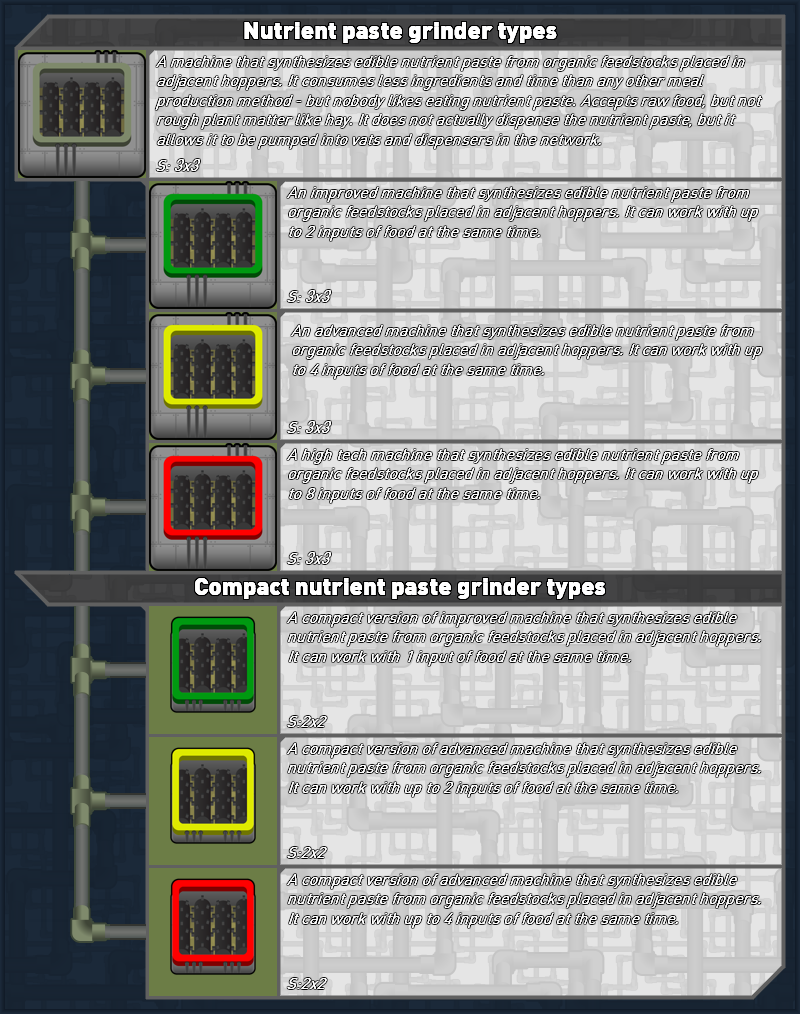
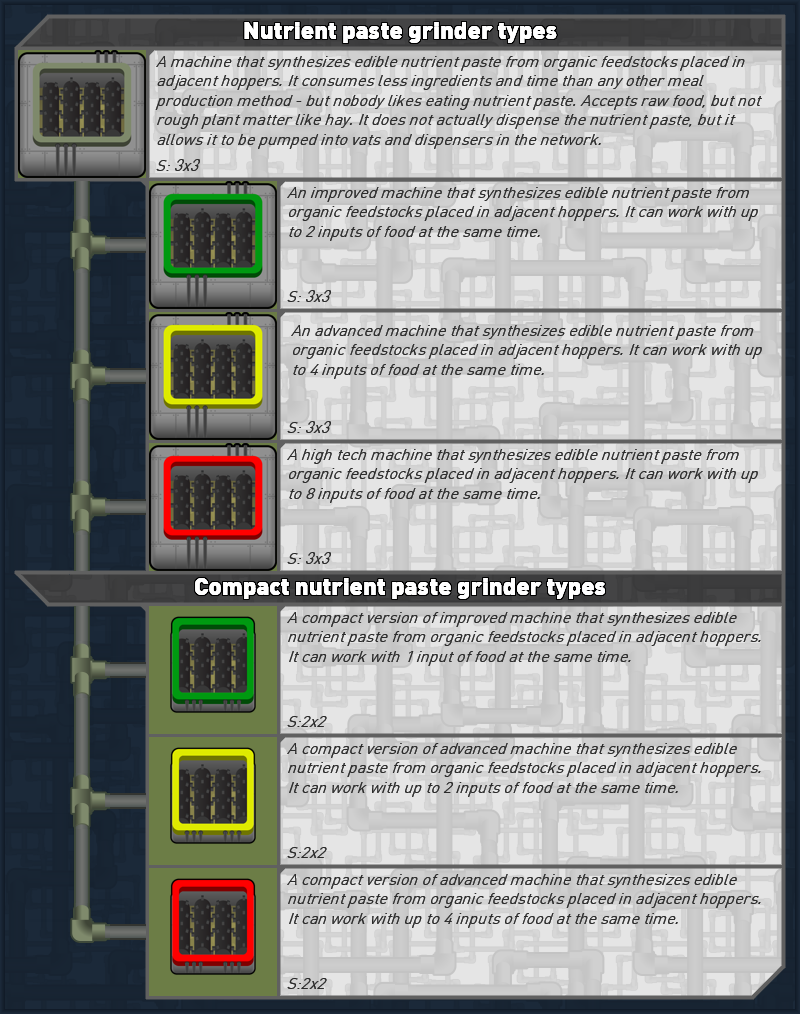
Fixed Fridge hopper showing even without related mod. Fixed grinder attribute failing from other mod. Updated image desc color for everything. Updated Readme.

diff --git a/README.md b/README.md
@@ -32,6 +32,8 @@ For the reference things from Rimworld and VNPE shown below alongside content of
 
 Should have no compatibility issues with other mods, unless Vanilla Nutrient Paste Expanded have.
 
+Add refridgerated versions of feeder and hopper, if Simple Utilites: Fridge mod installed.
+
 **This mod is an unofficial addition for Vanilla Nutrient Paste Expanded.**
 
 Supported languages:
